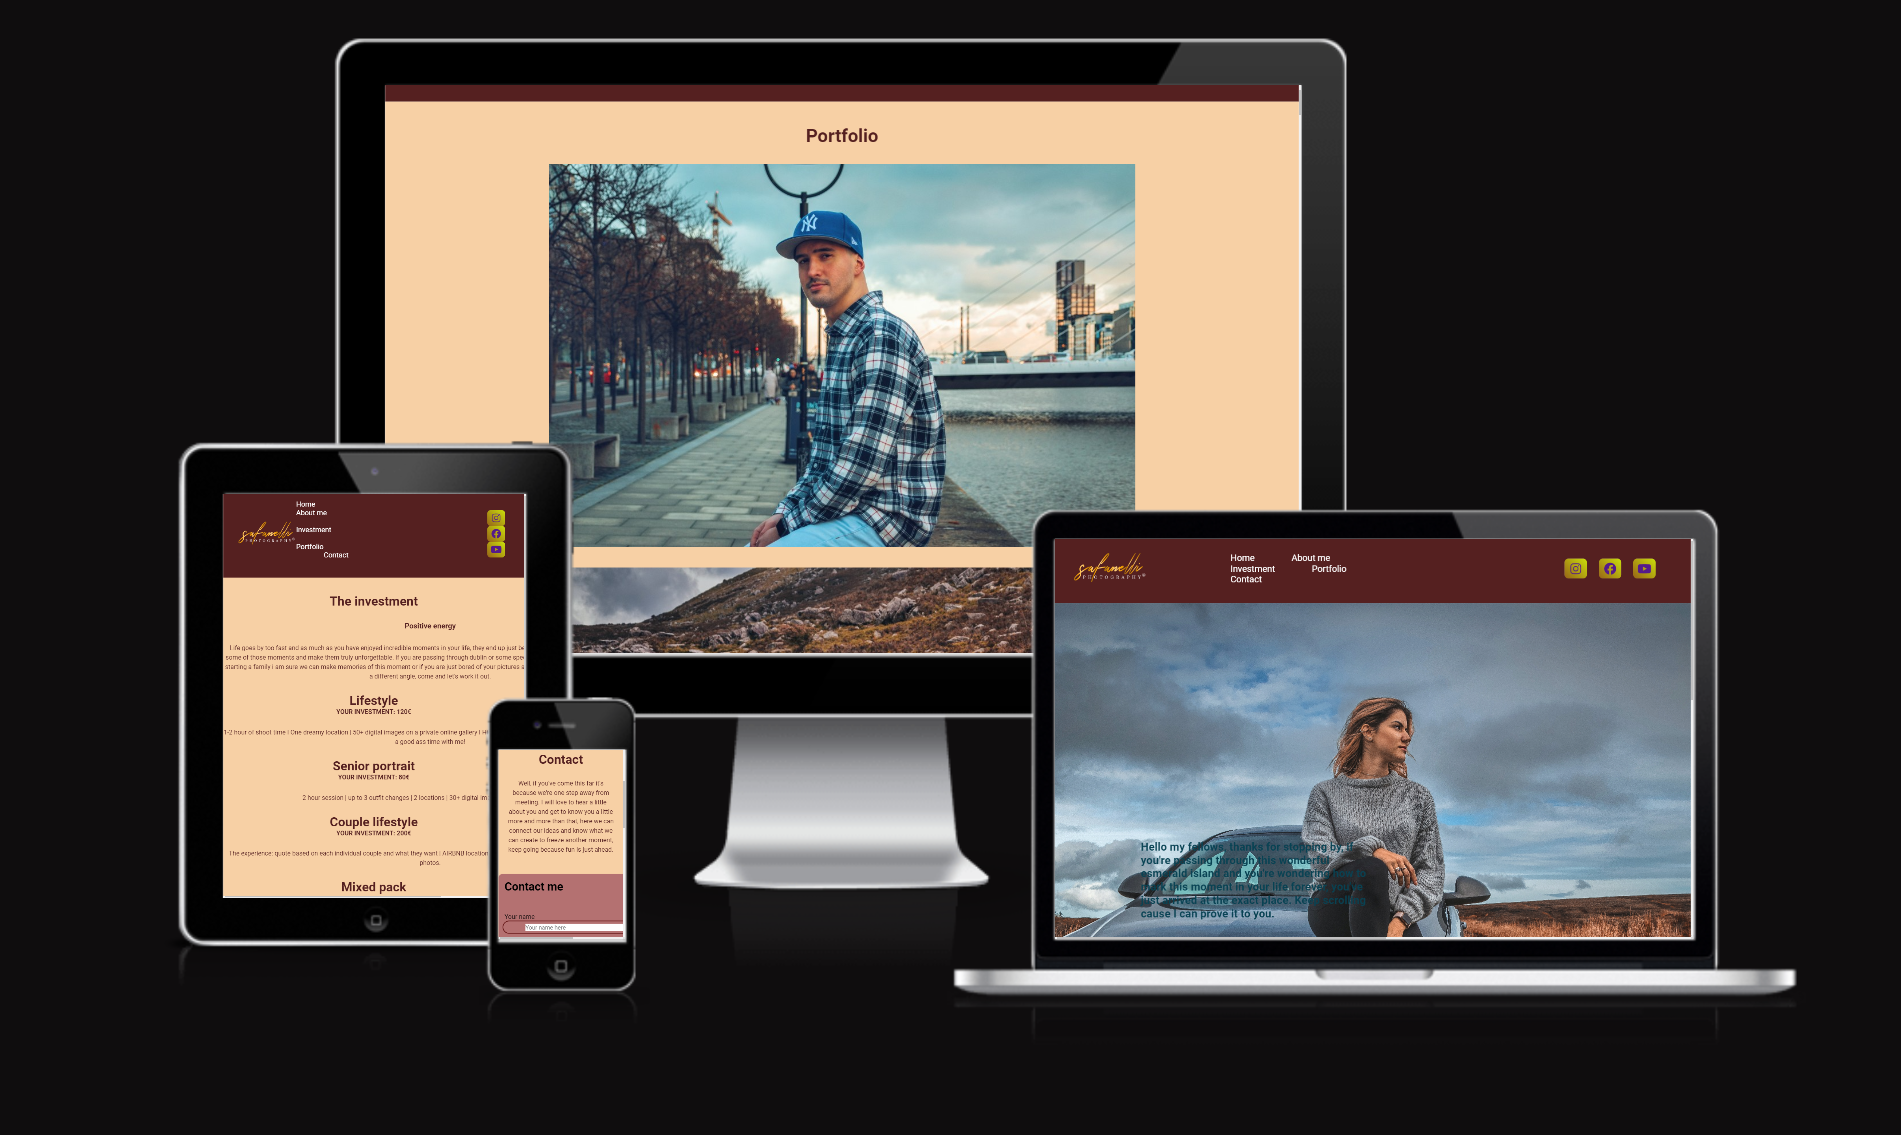
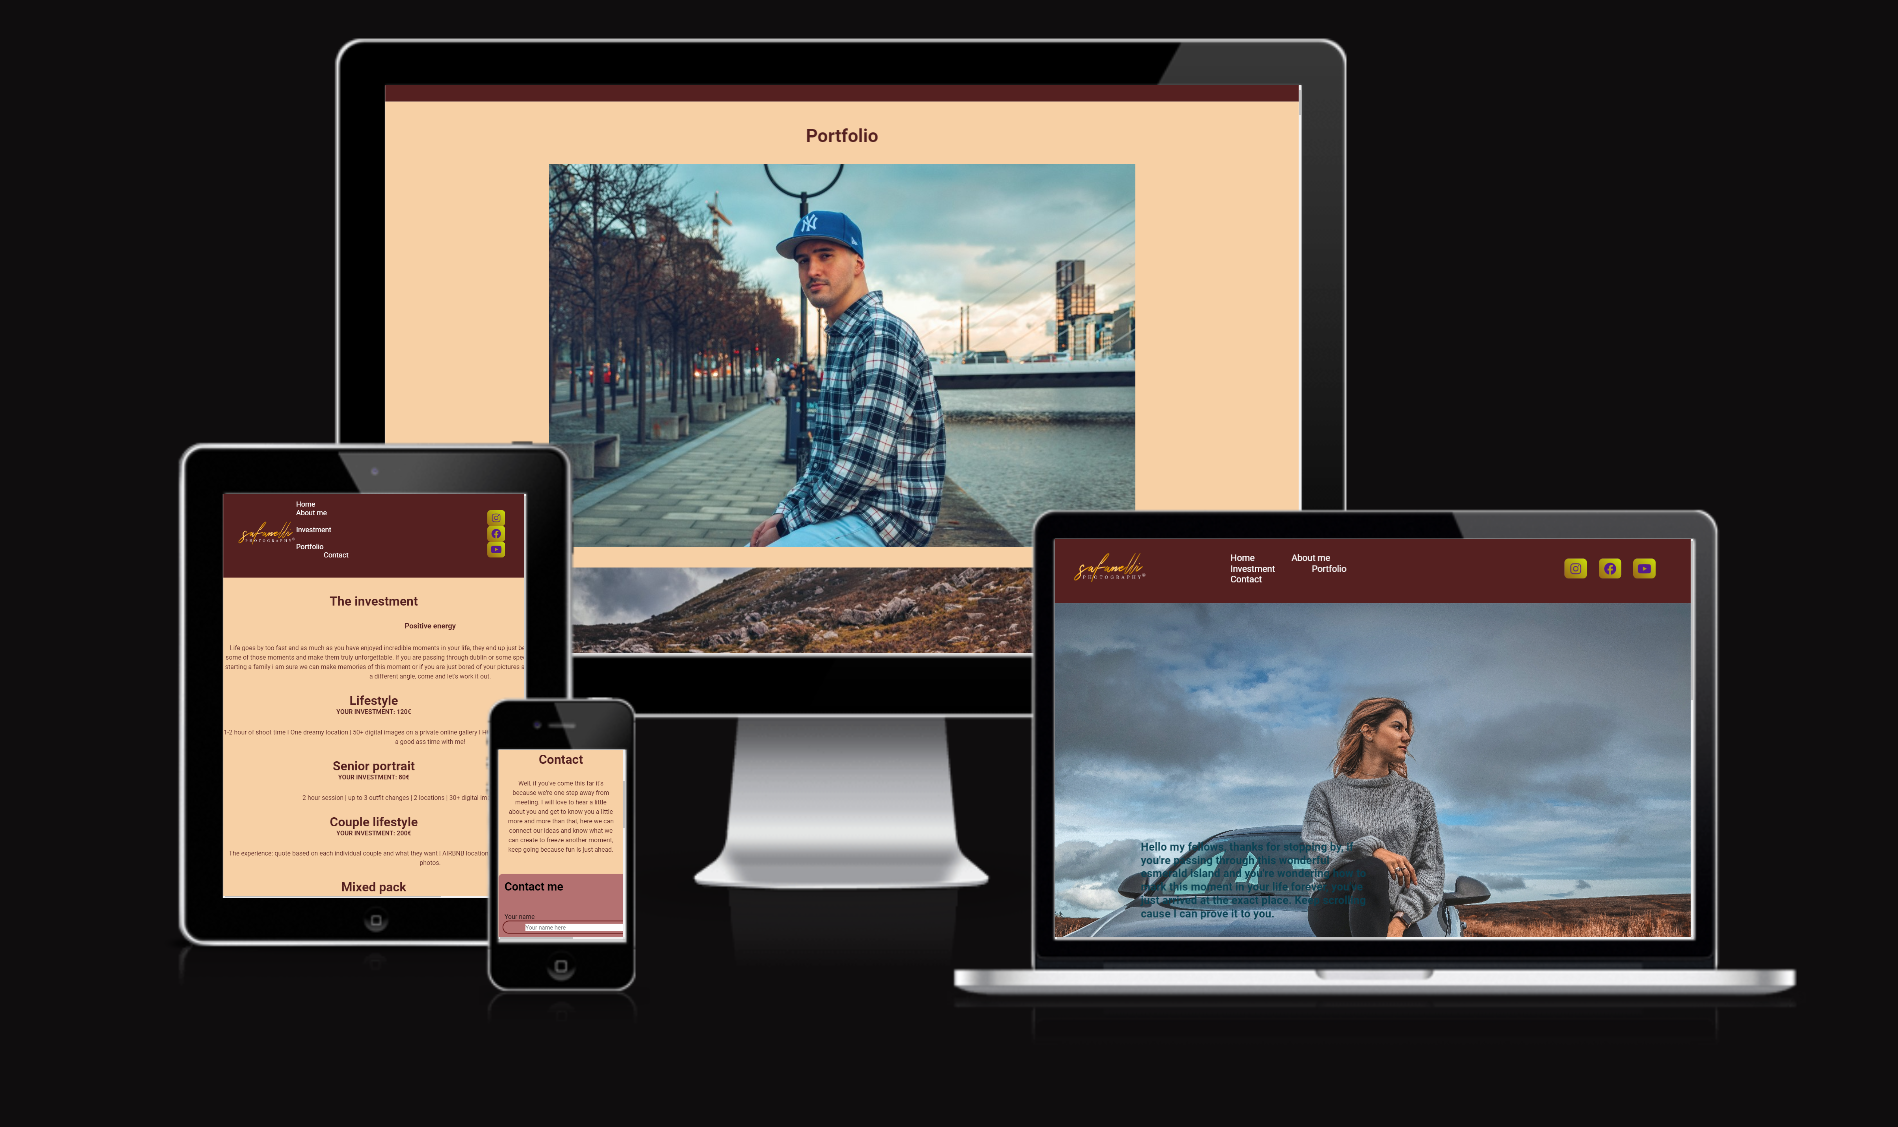
add images

Changed region(s): [[0.0933, 0.0311, 0.9636, 0.9006], [0.6217, 0.5901, 0.6839, 0.6211], [0.4352, 0.0932, 0.4663, 0.1242]]

diff --git a/README.md b/README.md
@@ -1,4 +1,6 @@
 # Safanelli Photographer Coder
+
+
  
  Welcome to ...
 
@@ -8,4 +10,32 @@
 
  - Here is the link to the final project > [Safanelli Photographer](https://diogosafanelli.github.io/first-project-ci/)
 
- <img src="readme.png">
+ 
+ <img src="img/readme.png" alt="">
+
+ ## UX/UI Design
+
+ ### Strategy
+
+#### Site owner goals
+
+- The website was created to motivate people to do photo shoots.
+- The website have the objective to show a little of the work of the photographer.
+- The website will talk about the investment values and a little about the photographer himself.
+- The website goal is to attract people's to look at themselves with a more affectionate look and decide to freeze some moments.
+- The website should be simple to navigate and easy to read.
+
+#### User stories
+
+- As a user, I want to understand the purpose of the website, so I can know if it's of interest to me.
+- As a user, I want to easily navigate the site, so I don't lose enthusiasm for using the site.
+- As a user, I want to be able to learn something new, so I fulfill the objective that brought me to the site.
+- As a user, I want to have access to all the links, so I can connect if it interests me.
+- As a user, I want to see media (photos) related to the main subject, so I can better understand what was explained.
+
+#### Scope
+
+- For the Safanelli Photographer website I have planned the following features.
++ Use images and text for more varied content.
++ Use of short texts and longer texts, so the reading doesn't get too tiring.
++ Use technologies and tools that improve site development and performance.
